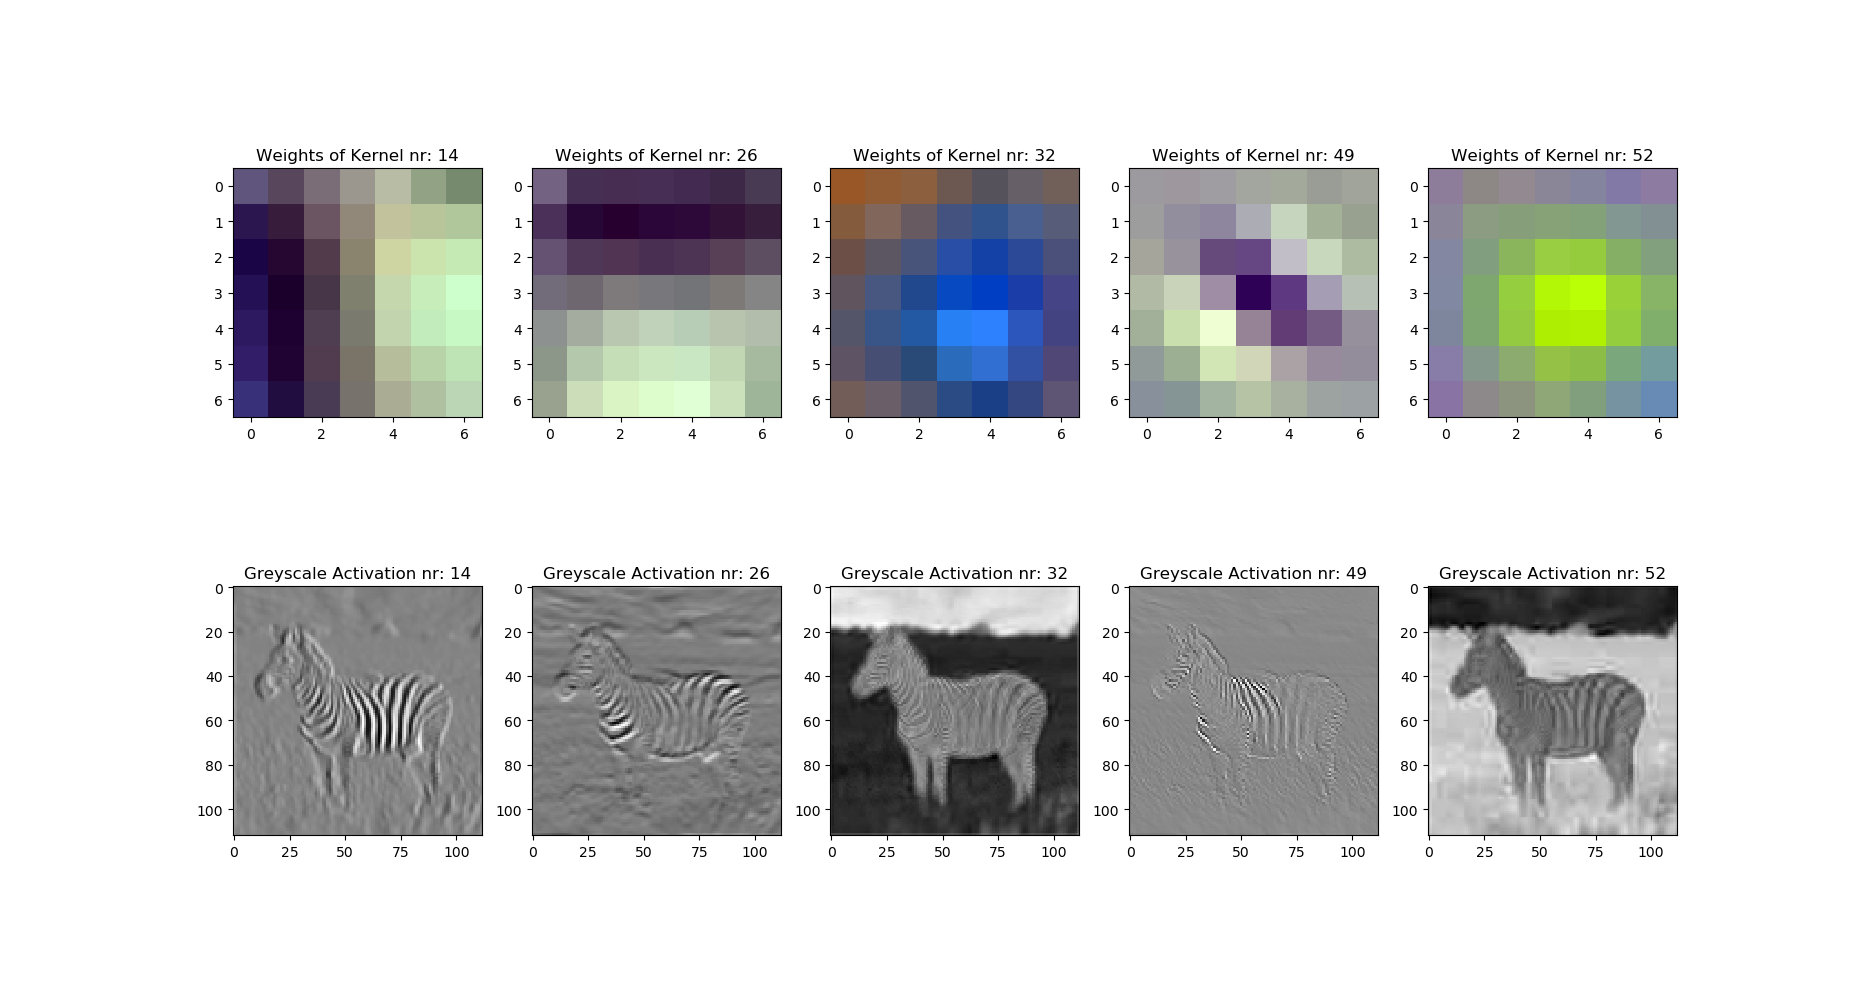
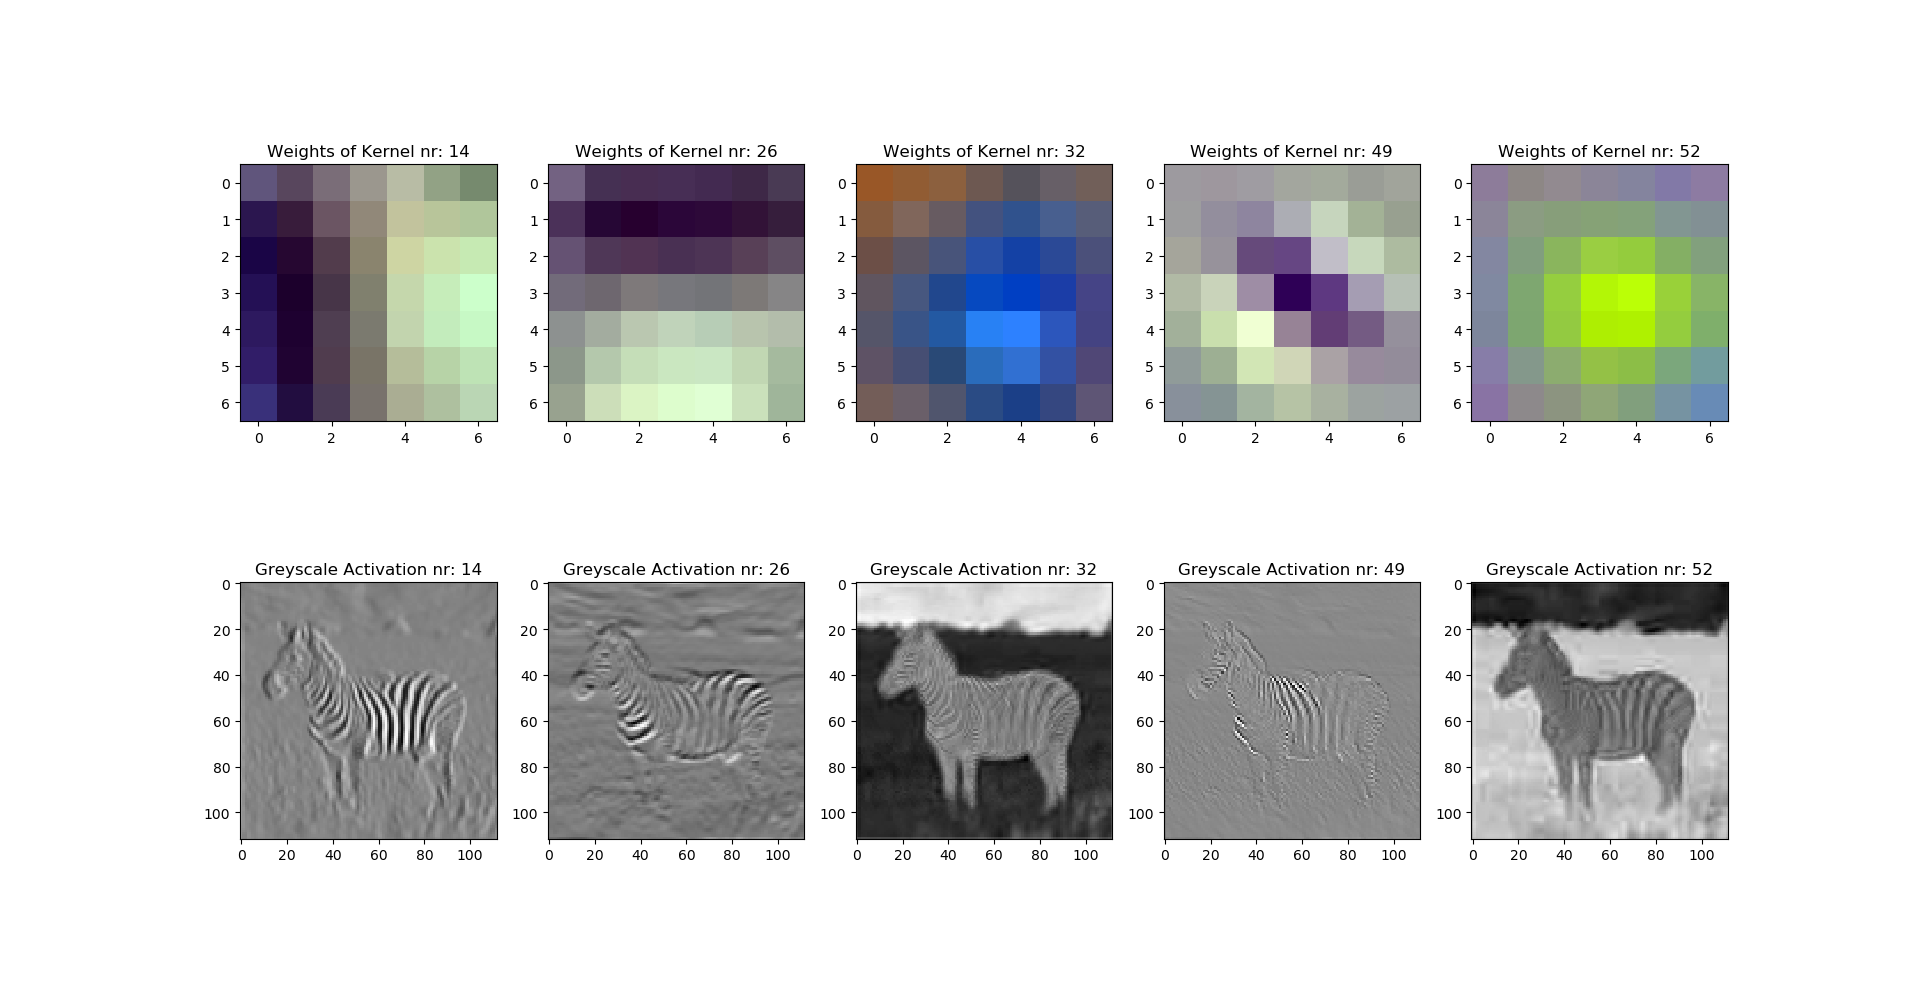
add: weight plotting in task4c as well, fix: activation plotting

diff --git a/assignment3/task4b.py b/assignment3/task4b.py
@@ -85,7 +85,26 @@ fig.savefig("weight_and_activationImages")
 # return the activation from the last convolutional layer
 last_conv_layer = nn.Sequential(*list(model.children())[:-2])
 #print("Last conv layer:", last_conv_layer)
-activation = last_conv_layer.forward(image)
+
+#activation = last_conv_layer.forward(image)
+activation = last_conv_layer[0](image)
+
+for index in range(10):
+    # weights have the dim (image,3,7,7); meaning (image,:,:,:) is what we want out. PS: need to convert
+    kernel_weight_image = torch_image_to_numpy(
+    last_conv_layer[0].weight[index, :, :, :])
+    print(kernel_weight_image.shape)
+    plt.subplot(2, 5, index + 1)
+    plt.title('%s %d' % ("Weights of Kernel nr:", (index + 1)))
+    plt.imshow(kernel_weight_image)
+
+manager = plt.get_current_fig_manager()
+manager.window.showMaximized()
+
+fig = plt.figure(1)
+plt.show()
+fig.savefig("task4c_weights")
+
 
 for index in range(10):
     # greyscaled activation shape dim (1,512,7,7)
